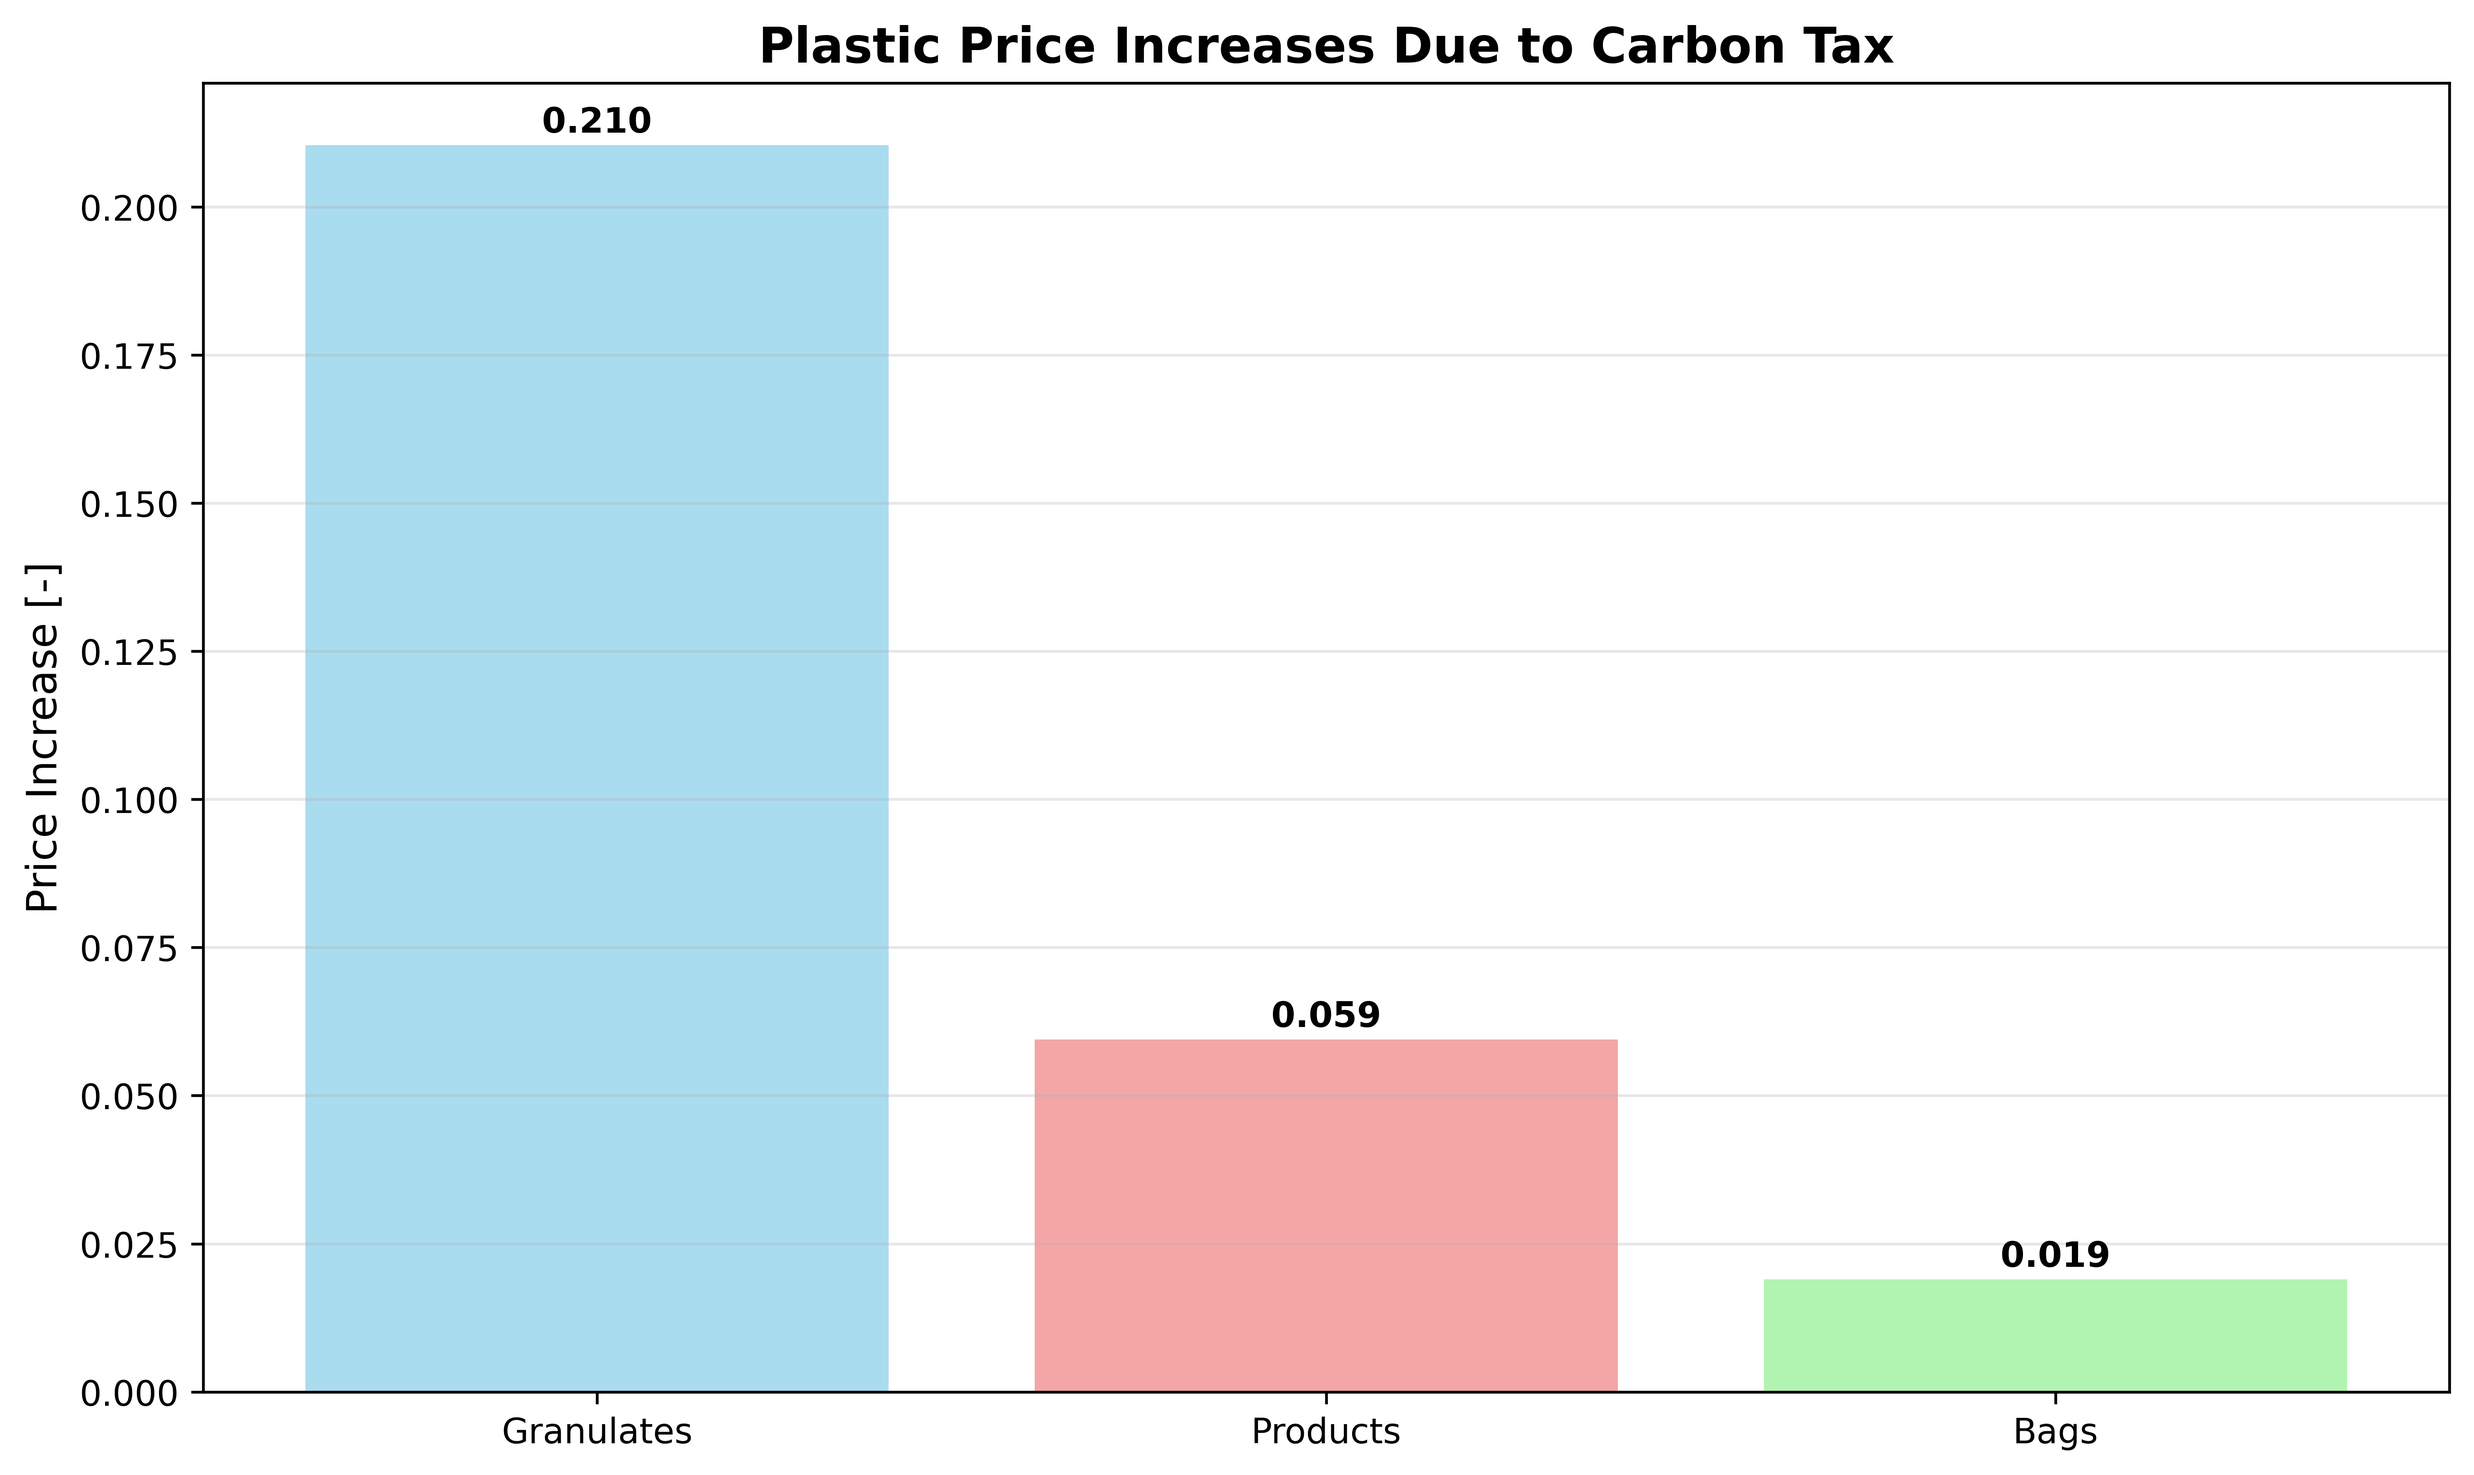
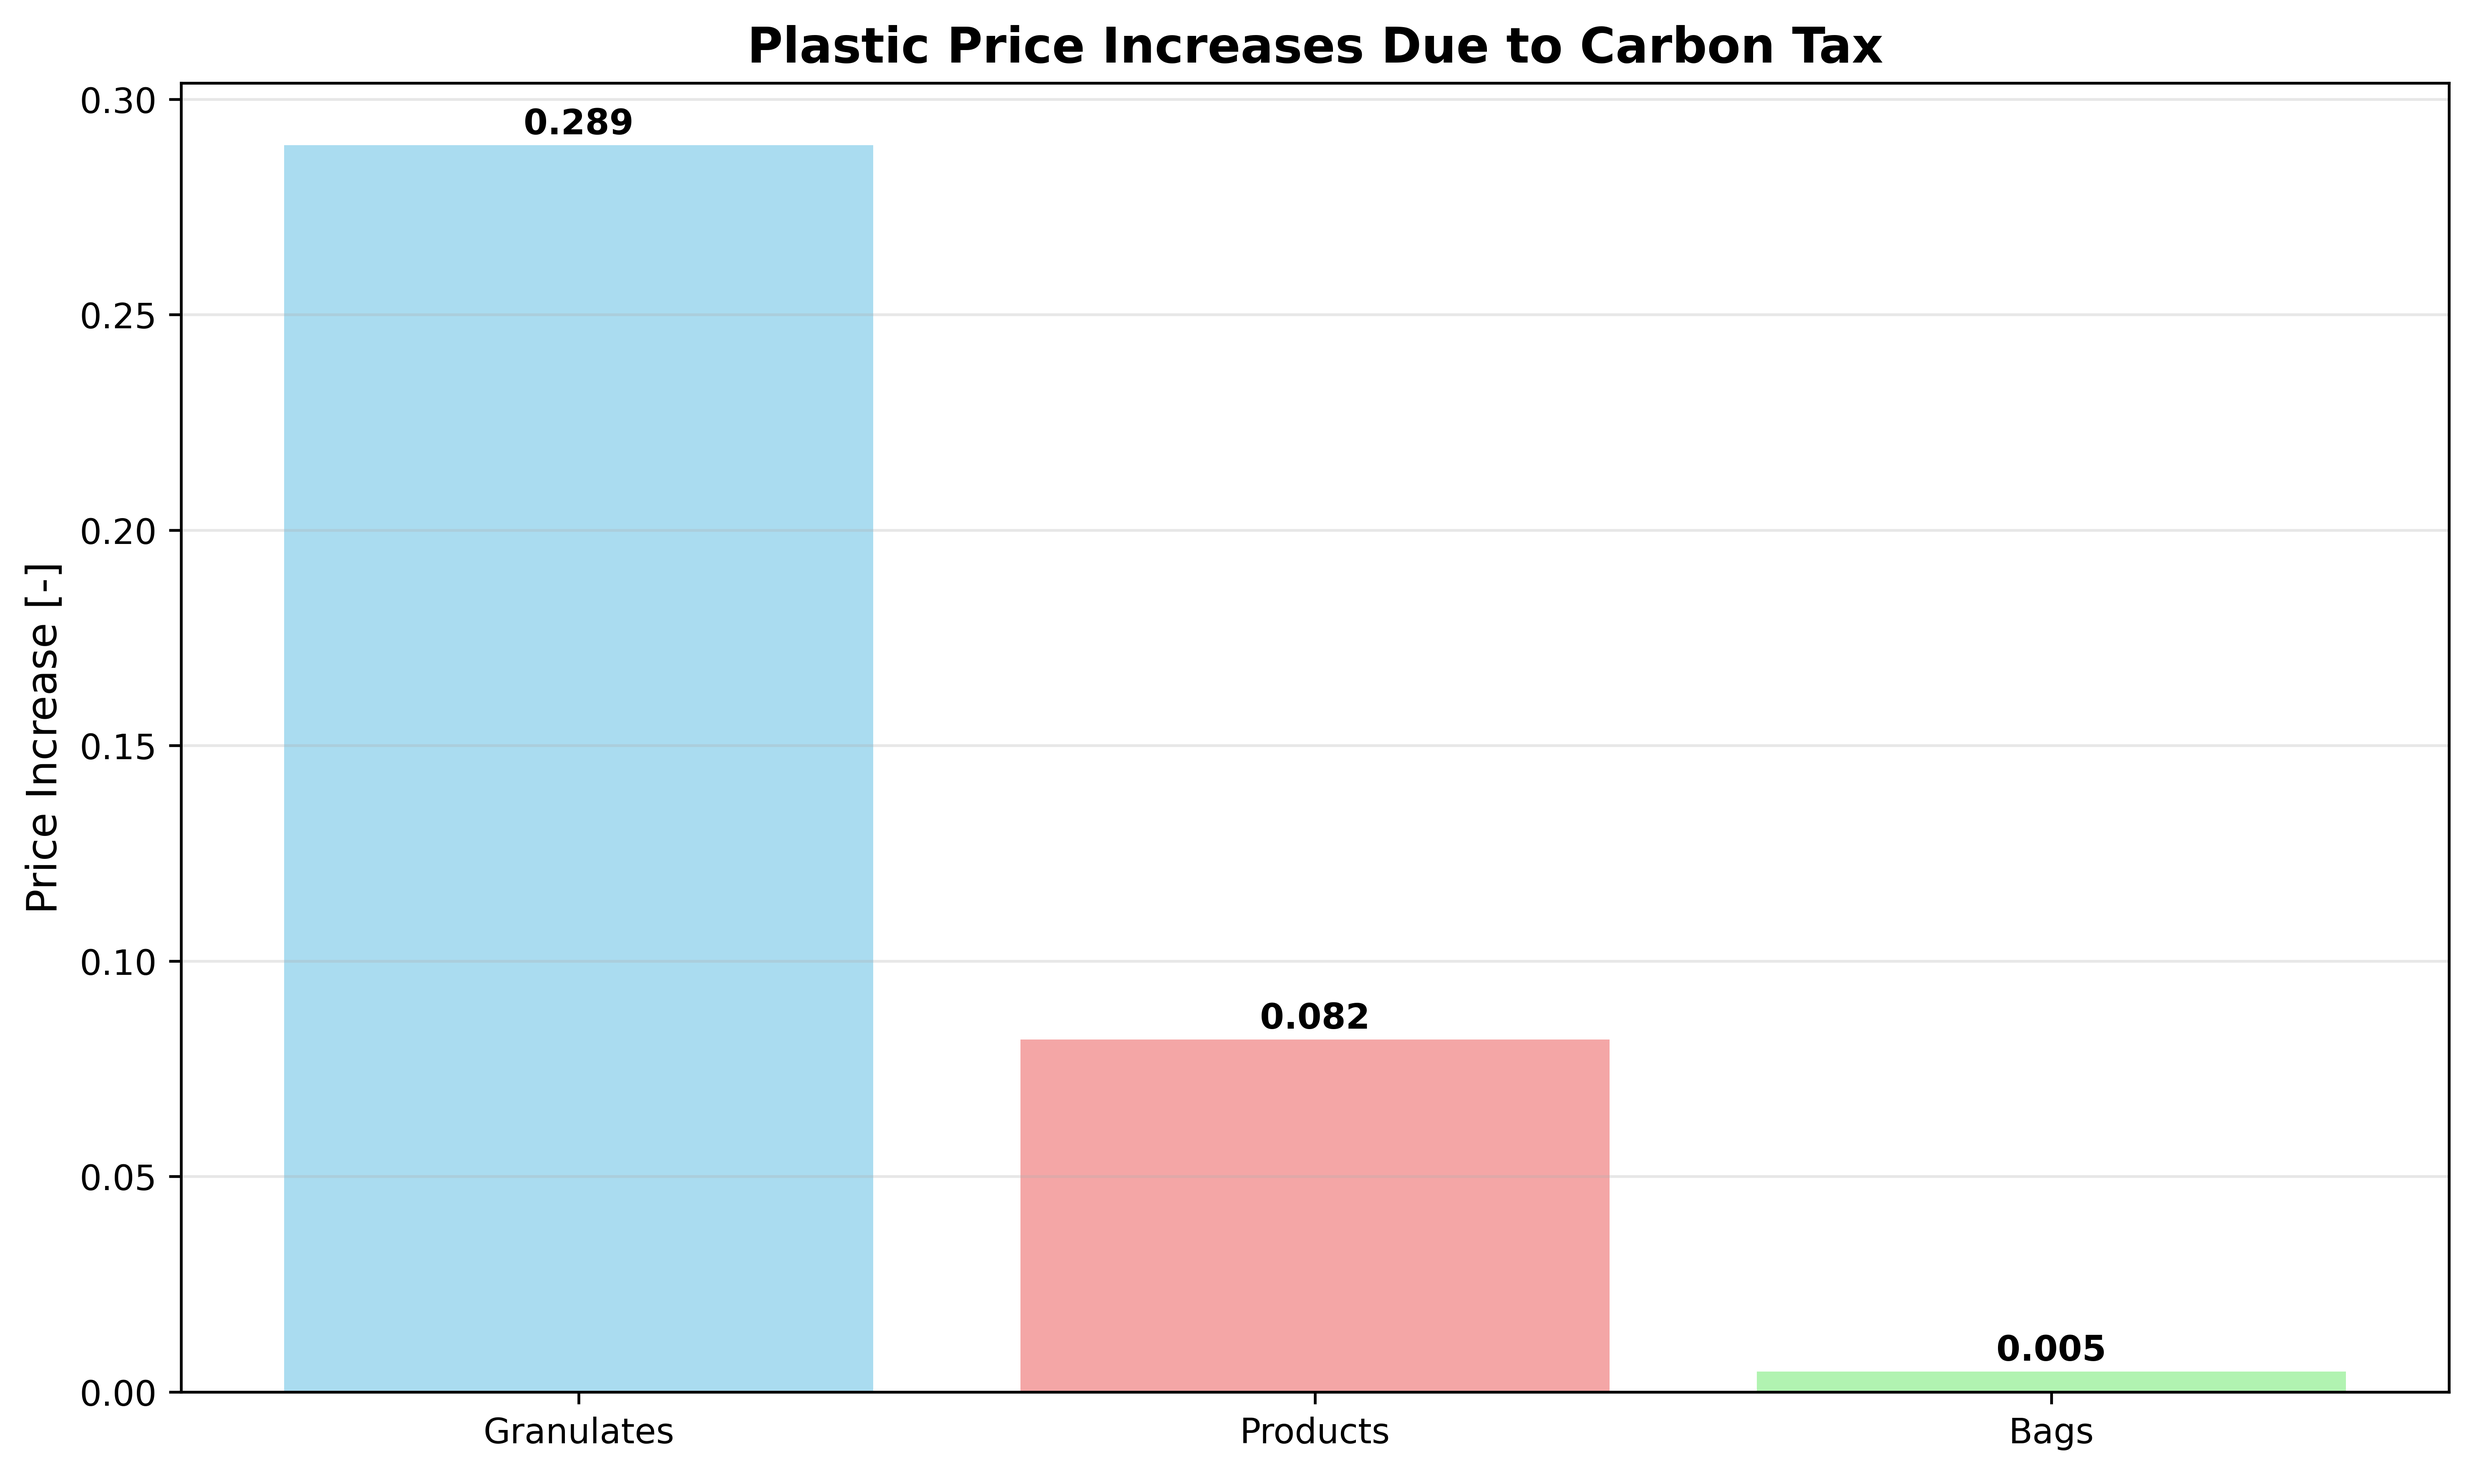
Adjust plants

diff --git a/model.py b/model.py
@@ -105,6 +105,7 @@ def estimate_CAPEX(mcaptured, x):
 
     # Calculate CAPEX using power law model
     CAPEX = x["CAPEX_ref"] * (mannual / x["captured_ref"]) ** x["k"]  # [kEUR]
+    print("CELSIO method yields:",x["CAPEX_ref"] * (65*8000/1000 / x["captured_ref"]) ** x["k"] /1000, " MEUR")
     CAPEX *= 1 + x["FOAK"]
     
     # Calculate levelized CAPEX using the levelize function
@@ -1217,7 +1218,7 @@ def WACCUS_EPR(
     mgranulates = 1258597, # [t/a] granulates [IVL]
     pgranulates = 13000, # [SEK/t] [IVL]
     mbag = 5*10**-6,       # [t/bag] check plastic_mapping calculation
-    pbag = 0.72,           # [SEK/bag]
+    pbag = 4,           # [SEK/bag]
     cfraction = 0.85,    # [-] cfraction of carbon in plastic [Isabel]
     circulated = 0.10,   # [-] fraction of granulates circulated, exempt from tax
 
@@ -1254,7 +1255,7 @@ def WACCUS_EPR(
     transport_optimism = False,   # [True, False]
 
     # levers 
-    tax = 80,          # [EUR/tCO2] [50, 100, 150, 200, 250, 300, 350] NOTE: explore discrete ranges => easier to visualize later
+    tax = 110,          # [EUR/tCO2] [50, 100, 150, 200, 250, 300, 350] NOTE: explore discrete ranges => easier to visualize later
     recyclable = 0.15,  # [-] fraction of products possible to recycle mechanically (exempt from tax), determined by policy criteria
 
     # constants
@@ -1343,12 +1344,12 @@ def WACCUS_EPR(
         CCU_names = ["Renova","SAKAB","Filbornaverket","Garstadverket","Sjolunda"]
         CCS_names = ["Handeloverket","Bristaverket","Vasteras KVV","Hogdalenverket","Bolanderna"]
     elif case == "CCU":
-        CCU_names = ["Renova","Hogdalenverket","Sjolunda","Korstaverket","Garstadverket","Vasteras KVV","Handeloverket","Bolanderna","Filbornaverket","Bristaverket"]
+        CCU_names = ["Renova","Hogdalenverket","Sjolunda","Hogbytorp","Garstadverket","Vasteras KVV","Handeloverket","Bolanderna","Filbornaverket","Bristaverket"]
         # CCU_names = ["Renova"]
         CCS_names = []
     elif case == "CCS":
         CCU_names = []
-        CCS_names = ["Renova","Hogdalenverket","Sjolunda","Korstaverket","Garstadverket","Vasteras KVV","Handeloverket","Bolanderna","Filbornaverket","Bristaverket"]
+        CCS_names = ["Renova","Hogdalenverket","Sjolunda","Hogbytorp","Garstadverket","Vasteras KVV","Handeloverket","Bolanderna","Filbornaverket","Bristaverket"]
 
     bids = []
     for _, plant in plants.iterrows():
@@ -1506,7 +1507,7 @@ if __name__ == "__main__":
     # Run the model
     output = WACCUS_EPR(
         question="granulates",
-        case="CCU", 
+        case="CCS", 
         plants=plants, 
         k=k,                          # For CAPEX=CAPEX_ref⋅(mCO2/mCO2_ref)^k
         transport_costs=transport_costs,

diff --git a/mapping.py b/mapping.py
@@ -20,7 +20,7 @@ def plot_europe():
     ]
     
     # Read the Europe shapefile and convert to WGS84 coordinate system
-    europe = gpd.read_file("shapefiles/Europe/Europe_merged.shp").to_crs("EPSG:4326")
+    europe = gpd.read_file("data/shapefiles/Europe/Europe_merged.shp").to_crs("EPSG:4326")
     
     # Read plants data from plants.csv
     plants_df = pd.read_csv("data/plants.csv")
@@ -68,13 +68,13 @@ def plot_europe():
         "Renova",
         "Hogdalenverket", 
         "Sjolunda",
-        # "Korstaverket",
+        "Bristaverket",
         "Garstadverket",
         "Vasteras KVV",
         "Handeloverket",
-        # "Bolanderna",
-        # "Filbornaverket",
-        # "Bristaverket"
+        "Bolanderna",
+        "Filbornaverket",
+        "Hogbytorp"
     ]
     # green_plants = []
     
@@ -96,7 +96,7 @@ def plot_europe():
         
         # Color plants based on hard-coded list: blue if in list, grey otherwise
         if plant['Name'] in green_plants:
-            color = 'mediumseagreen'
+            color = 'deepskyblue' #mediumseagreen
             alpha = 0.8
         else:
             color = 'grey'
@@ -109,15 +109,17 @@ def plot_europe():
     ax.set_ylim(53.5, 70)
     ax.set_aspect(1.90) 
 
-    # Add title and labels
-    ax.set_title("Europe Map View", fontsize=14, fontweight='bold')
-    ax.set_xlabel("Longitude (°E)", fontsize=12)
-    ax.set_ylabel("Latitude (°N)", fontsize=12)
+    # Remove all ticks and labels for a clean map
+    ax.set_xticks([])
+    ax.set_yticks([])
+    ax.set_xlabel("")
+    ax.set_ylabel("")
+    ax.set_title("")
     
     # Add legend
     ax.scatter([], [], marker='D', s=100, color='crimson', edgecolor='black', linewidth=1, label='Hubs')
     ax.scatter([], [], marker='D', s=100, color='maroon', edgecolor='black', linewidth=1, label='Storage')
-    ax.scatter([], [], s=200, color='mediumseagreen', alpha=0.8, edgecolor='black', linewidth=0.5, label='Selected plants')
+    ax.scatter([], [], s=200, color='deepskyblue', alpha=0.8, edgecolor='black', linewidth=0.5, label='Selected plants')
     ax.scatter([], [], s=200, color='grey', alpha=0.4, edgecolor='black', linewidth=0.5, label='Other plants')
     ax.legend(loc='upper left')
     
